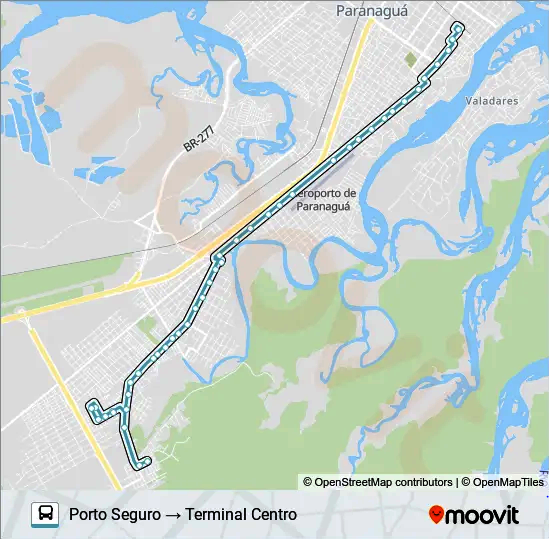
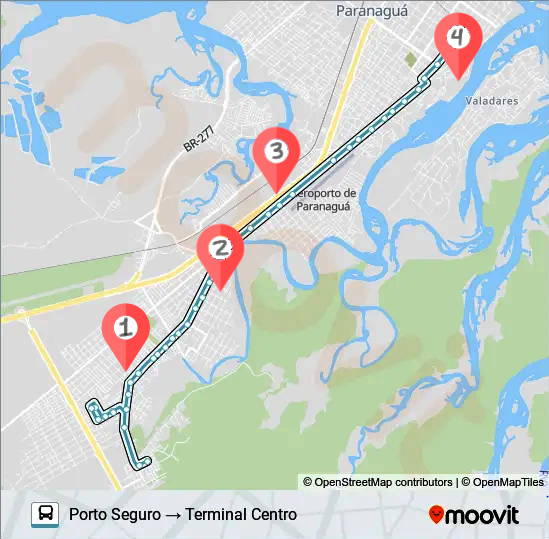
criado classe viagem e pontos

diff --git a/src/main/java/com/projetointegrador/controllers/Principal.java b/src/main/java/com/projetointegrador/controllers/Principal.java
@@ -5,30 +5,37 @@ import java.util.List;
 import java.util.ResourceBundle;
 import com.github.hugoperlin.results.Resultado;
 import com.projetointegrador.App;
-import com.projetointegrador.model.entities.Rota;
-import com.projetointegrador.model.repositories.RepositorioRota;
+import com.projetointegrador.model.entities.*;
+import com.projetointegrador.model.repositories.*;
 import javafx.event.ActionEvent;
 import javafx.fxml.FXML;
 import javafx.fxml.Initializable;
-import javafx.geometry.Rectangle2D;
 import javafx.scene.control.*;
 import javafx.scene.control.Alert.AlertType;
 import javafx.scene.image.Image;
 import javafx.scene.image.ImageView;
 import javafx.scene.input.MouseEvent;
-import javafx.scene.input.ZoomEvent;
 
 public class Principal implements Initializable {
-    RepositorioRota repositorioOnibus;
+    RepositorioRota repositorioRota;
+    RepositorioPonto repositorioPonto;
+    RepositorioViagem repositorioViagem;
 
     @FXML
     private ComboBox<Rota> cbRota;
 
     @FXML
+    private ComboBox<Ponto> cbPontoInicio;
+
+    @FXML
+    private ComboBox<Ponto> cbPontoFinal;
+
+    @FXML
     private ImageView imgRotas;
 
-    public Principal(RepositorioRota repositorioOnibus) {
-        this.repositorioOnibus = repositorioOnibus;
+    public Principal(RepositorioRota repositorioRota, RepositorioPonto repositorioPonto) {
+        this.repositorioRota = repositorioRota;
+        this.repositorioPonto = repositorioPonto;
     }
 
     @FXML
@@ -55,26 +62,28 @@ public class Principal implements Initializable {
     }
 
     @FXML
-    void zooming(ZoomEvent event) {
-        imgRotas.setScaleX(imgRotas.getScaleX() + 1);
-        imgRotas.setScaleY(imgRotas.getScaleY() + 1);
-    }
-
-    @FXML
-    void zoomout(MouseEvent event) {
-        imgRotas.setScaleX(imgRotas.getScaleX() - 1);
-        imgRotas.setScaleY(imgRotas.getScaleY() - 1);
+    void iniciaViagem(ActionEvent event) {
+        repositorioViagem.iniciarViagem(cbPontoInicio.getValue(), cbPontoFinal.getValue());
     }
 
     @Override
     public void initialize(URL arg0, ResourceBundle arg1) {
-        Resultado resultado = repositorioOnibus.listar();
-
+        Resultado resultado = repositorioRota.listar();
         if (resultado.foiSucesso()) {
             List<Rota> list = (List) resultado.comoSucesso().getObj();
             cbRota.getItems().addAll(list);
         } else {
             Alert alert = new Alert(AlertType.ERROR, resultado.getMsg());
+            alert.showAndWait();
+        }
+
+        Resultado ponto = repositorioPonto.listar();
+        if (ponto.foiSucesso()) {
+            List<Ponto> list = (List) ponto.comoSucesso().getObj();
+            cbPontoInicio.getItems().addAll(list);
+            cbPontoFinal.getItems().addAll(list);
+        } else {
+            Alert alert = new Alert(AlertType.ERROR, ponto.getMsg());
             alert.showAndWait();
         }
     }

diff --git a/src/main/java/com/projetointegrador/App.java b/src/main/java/com/projetointegrador/App.java
@@ -11,6 +11,9 @@ public class App extends BaseAppNavigator {
 
     private RotaDAO rotaDAO = new JDBCRotaDAO(FabricaConexoes.getInstance());
     private RepositorioRota repositorioRota = new RepositorioRota(rotaDAO);
+
+    private PontoDAO pontoDAO = new JDBCPontoDAO(FabricaConexoes.getInstance());
+    private RepositorioPonto repositorioPonto = new RepositorioPonto(pontoDAO);
     
     public static void main(String[] args) {
         launch();
@@ -24,7 +27,7 @@ public class App extends BaseAppNavigator {
     @Override
     public String getHome() {
         //Verificar antes se o usuario ja n esta logado
-        return "LOGIN";
+        return "PRINCIPAL";
     }
 
     @Override
@@ -40,7 +43,7 @@ public class App extends BaseAppNavigator {
         registraTela("PRINCIPAL",
                  new ScreenRegistryFXML(App.class,
                         "principal.fxml",
-                        o -> new Principal(repositorioRota)));
+                        o -> new Principal(repositorioRota, repositorioPonto)));
         registraTela("PERFIL",
                  new ScreenRegistryFXML(App.class,
                         "perfil.fxml",

diff --git a/src/main/java/com/projetointegrador/model/daos/JDBCPontoDAO.java b/src/main/java/com/projetointegrador/model/daos/JDBCPontoDAO.java
@@ -1,0 +1,36 @@
+package com.projetointegrador.model.daos;
+
+import java.sql.*;
+import java.util.ArrayList;
+import com.github.hugoperlin.results.Resultado;
+import com.projetointegrador.model.entities.Ponto;
+
+public class JDBCPontoDAO implements PontoDAO {
+    private static final String SELECTSQL = "SELECT * FROM PIPonto";
+
+    private FabricaConexoes fabrica;
+
+    public JDBCPontoDAO(FabricaConexoes fabrica) {
+        this.fabrica = fabrica;
+    }
+
+    @Override
+    public Resultado listar() {
+        try(Connection con = fabrica.getConnection()){
+            PreparedStatement pstm = con.prepareStatement(SELECTSQL);
+            ResultSet rs = pstm.executeQuery();
+            ArrayList<Ponto> lista = new ArrayList<>();
+
+            while(rs.next()){
+                int id = rs.getInt("id");
+                String nome = rs.getString("nome");
+
+                Ponto pontos = new Ponto(id, nome);
+                lista.add(pontos);
+            }
+            return Resultado.sucesso("Lista carregada!", lista);    
+        }catch(SQLException e){
+            return Resultado.erro(e.getMessage());
+        }
+    }
+}

diff --git a/src/main/java/com/projetointegrador/model/repositories/RepositorioViagem.java b/src/main/java/com/projetointegrador/model/repositories/RepositorioViagem.java
@@ -1,0 +1,21 @@
+package com.projetointegrador.model.repositories;
+
+import com.github.hugoperlin.results.Resultado;
+import com.projetointegrador.model.daos.ViagemDAO;
+import com.projetointegrador.model.entities.Ponto;
+
+public class RepositorioViagem {
+    private ViagemDAO viagemDAO;
+
+    public RepositorioViagem(ViagemDAO viagemDAO) {
+        this.viagemDAO = viagemDAO;
+    }
+
+    public Resultado iniciarViagem(Ponto pontoInicial, Ponto pontoFinal){
+        if (pontoInicial == null || pontoFinal == null){
+            return Resultado.erro("Selecion dois pontos!");
+        }else{
+            return viagemDAO.iniciar();
+        }
+    }
+}

diff --git a/src/main/java/com/projetointegrador/model/repositories/RepositorioPonto.java b/src/main/java/com/projetointegrador/model/repositories/RepositorioPonto.java
@@ -1,0 +1,16 @@
+package com.projetointegrador.model.repositories;
+
+import com.github.hugoperlin.results.Resultado;
+import com.projetointegrador.model.daos.PontoDAO;
+
+public class RepositorioPonto {
+    private PontoDAO pontoDAO;
+
+    public RepositorioPonto(PontoDAO pontoDAO) {
+        this.pontoDAO = pontoDAO;
+    }
+
+    public Resultado listar() {
+        return pontoDAO.listar();
+    }
+}

diff --git a/src/main/java/com/projetointegrador/model/daos/JDBCViagemDAO.java b/src/main/java/com/projetointegrador/model/daos/JDBCViagemDAO.java
@@ -1,0 +1,16 @@
+package com.projetointegrador.model.daos;
+
+import com.github.hugoperlin.results.Resultado;
+
+public class JDBCViagemDAO implements ViagemDAO {
+    private FabricaConexoes fabrica;
+
+    public JDBCViagemDAO(FabricaConexoes fabrica) {
+        this.fabrica = fabrica;
+    }
+
+    @Override
+    public Resultado iniciar() {
+        return null;
+    }
+}

diff --git a/src/main/java/com/projetointegrador/model/entities/Rota.java b/src/main/java/com/projetointegrador/model/entities/Rota.java
@@ -3,8 +3,6 @@ package com.projetointegrador.model.entities;
 public class Rota {
     private int id;
     private String nome;
-    // private Ponto pontoInicial;
-    // private Ponto pontoFinal;
 
     public Rota(int id, String nome) {
         this.id = id;

diff --git a/src/main/java/com/projetointegrador/model/entities/Ponto.java b/src/main/java/com/projetointegrador/model/entities/Ponto.java
@@ -24,4 +24,9 @@ public class Ponto {
     public void setNome(String nome) {
         this.nome = nome;
     }
+
+    @Override
+    public String toString() {
+        return nome;
+    }
 }

diff --git a/src/main/java/com/projetointegrador/model/daos/ViagemDAO.java b/src/main/java/com/projetointegrador/model/daos/ViagemDAO.java
@@ -1,0 +1,7 @@
+package com.projetointegrador.model.daos;
+
+import com.github.hugoperlin.results.Resultado;
+
+public interface ViagemDAO {
+    Resultado iniciar();
+}

diff --git a/src/main/java/com/projetointegrador/model/daos/PontoDAO.java b/src/main/java/com/projetointegrador/model/daos/PontoDAO.java
@@ -1,0 +1,7 @@
+package com.projetointegrador.model.daos;
+
+import com.github.hugoperlin.results.Resultado;
+
+public interface PontoDAO {
+    Resultado listar();
+}
